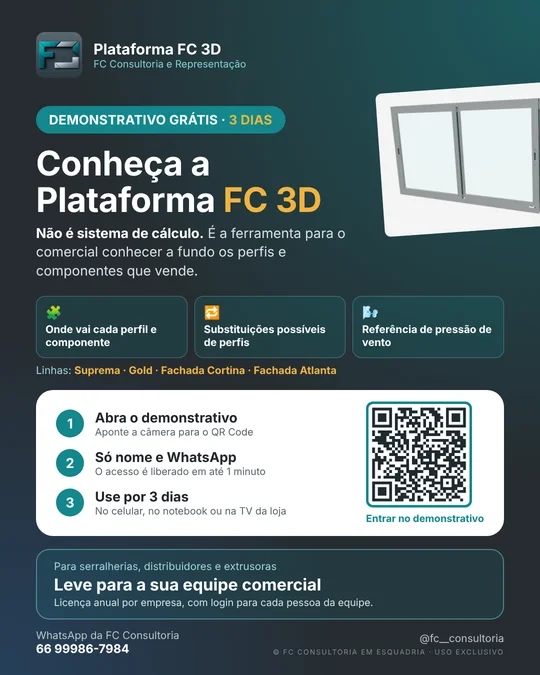
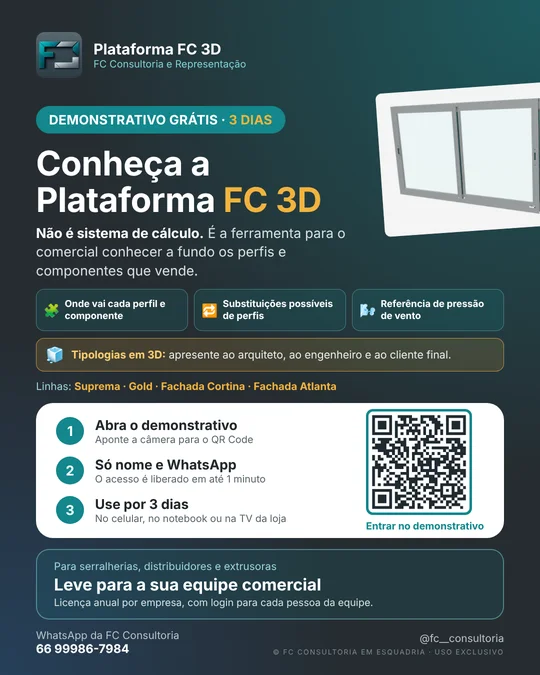
Folder e site: destaque das Tipologias em 3D para apresentar ao arquiteto, engenheiro e cliente final
Claude-Session: https://claude.ai/code/session_014hNNLCRjPvxHuqXagWzFm1

Changed region(s): [[0.0593, 0.4356, 0.9481, 0.8089]]

diff --git a/index.html b/index.html
@@ -193,7 +193,7 @@ footer{padding:28px 0 90px;color:var(--tm);font-size:13.5px}footer .w{display:fl
 
 <style>@media(max-width:760px){.mcb{grid-template-columns:1fr!important}.mcb>div:last-child{justify-self:start!important}}</style>
 <section class="tr" id="treinamento"><div class="w">
- <div class="sh"><div><span class="chip">NOVO</span><br><span class="eb">Plataforma FC 3D</span><h2>O comercial conhecendo a fundo os perfis e componentes que vende</h2></div><p>Não é sistema de cálculo nem de orçamento. É a ferramenta para a equipe comercial de serralherias, distribuidores e extrusoras ver onde vai cada perfil e componente, as substituições possíveis e a referência de pressão de vento. Licença anual por empresa, com login para cada pessoa da equipe.</p></div>
+ <div class="sh"><div><span class="chip">NOVO</span><br><span class="eb">Plataforma FC 3D</span><h2>O comercial conhecendo a fundo os perfis e componentes que vende</h2></div><p>Não é sistema de cálculo nem de orçamento. É a ferramenta para a equipe comercial de serralherias, distribuidores e extrusoras ver onde vai cada perfil e componente, as substituições possíveis e a referência de pressão de vento. E com as Tipologias em 3D, a empresa apresenta ao arquiteto, ao engenheiro e ao cliente final. Licença anual por empresa, com login para cada pessoa da equipe.</p></div>
  <style>
  .dif{margin:6px 0 34px;padding:26px;border-radius:22px;background:linear-gradient(160deg,#103f45 0,#0b2a2f 100%);border:1px solid rgba(110,210,220,.25)}
  .dif .dt{display:flex;align-items:baseline;gap:12px;flex-wrap:wrap;margin-bottom:18px}.dif .dt h3{font-size:26px;margin:0;color:#fff}.dif .dt span{color:#9fd6dc;font-size:15px}
@@ -224,6 +224,7 @@ footer{padding:28px 0 90px;color:var(--tm);font-size:13.5px}footer .w{display:fl
    <li><i>🧩</i><div><b>Onde vai cada perfil e componente</b><br><span>Janelas e portas das linhas Suprema e Gold: a aplicação de cada peça na montagem.</span></div></li>
    <li><i>🔁</i><div><b>Substituições possíveis</b><br><span>Quais perfis podem substituir outros, para atender com o que a empresa tem.</span></div></li>
    <li><i>🌬</i><div><b>Referência de pressão de vento</b><br><span>Simulação na própria tela, com as medidas da esquadria.</span></div></li>
+   <li><i>🧊</i><div><b>Tipologias em 3D para apresentar</b><br><span>A empresa mostra as esquadrias ao arquiteto, ao engenheiro e ao cliente final.</span></div></li>
    <li><i>🏢</i><div><b>Fachada Cortina e Fachada Atlanta</b><br><span>Montagens das fachadas em 3D com as medidas da obra.</span></div></li>
    <li><i>📐</i><div><b>Desenho técnico interativo</b><br><span>Elevação e cortes da montagem; passe o mouse no perfil e veja o código e o peso.</span></div></li>
   </ul>
@@ -234,7 +235,7 @@ footer{padding:28px 0 90px;color:var(--tm);font-size:13.5px}footer .w{display:fl
   <div class="dhd"><div><span class="chip">VÍDEO · 1 min</span><h3>Como funciona o demonstrativo de 3 dias</h3><p>Abra o link, preencha só nome e WhatsApp, e use por 3 dias no celular, no notebook ou na TV.</p></div></div>
     <div class="dbox" id="dbox"><video id="dvid" src="vid/plataforma_fc3d_demonstrativo.mp4?v=4" poster="img/plataforma-fc3d-video.jpg" controls playsinline preload="none"></video><button type="button" id="dplay">▶ Assista como funciona</button></div>
   <div class="dfold">
-   <a class="dfimg" href="img/folder-demonstrativo-fc3d.jpg?v=2" target="_blank" rel="noopener"><img src="img/folder-demonstrativo-fc3d-540.webp?v=2" width="540" height="675" alt="Folder do demonstrativo grátis de 3 dias da Plataforma FC 3D" loading="lazy"></a>
+   <a class="dfimg" href="img/folder-demonstrativo-fc3d.jpg?v=3" target="_blank" rel="noopener"><img src="img/folder-demonstrativo-fc3d-540.webp?v=3" width="540" height="675" alt="Folder do demonstrativo grátis de 3 dias da Plataforma FC 3D" loading="lazy"></a>
    <div class="dftx">
     <span class="chip">DEMONSTRATIVO GRÁTIS · 3 DIAS</span>
     <h3>Entre agora e conheça a Plataforma FC 3D</h3>
@@ -244,7 +245,7 @@ footer{padding:28px 0 90px;color:var(--tm);font-size:13.5px}footer .w{display:fl
      <li><b>Use por 3 dias</b> no celular, no notebook ou na TV da loja.</li>
     </ol>
     <p class="dfal">Gostou? Leve para a sua equipe comercial: fale com a FC e conheça os planos de licença anual por empresa, com login para cada pessoa.</p>
-    <div class="dfbt"><a class="btn cy" href="fc3d/clientes/demo/" target="_blank" rel="noopener">▶ Entrar no demonstrativo</a><a class="btn gh" href="https://wa.me/5566999867984?text=Ol%C3%A1%2C%20FC!%20Conheci%20a%20Plataforma%20FC%203D%20pelo%20demonstrativo%20e%20quero%20saber%20dos%20planos%20para%20a%20minha%20equipe." target="_blank" rel="noopener">💬 Gostei, quero falar com a FC</a><a class="btn gh" href="img/folder-demonstrativo-fc3d.jpg?v=2" download="Folder-Plataforma-FC3D-demonstrativo.jpg">⬇ Baixar o folder</a></div>
+    <div class="dfbt"><a class="btn cy" href="fc3d/clientes/demo/" target="_blank" rel="noopener">▶ Entrar no demonstrativo</a><a class="btn gh" href="https://wa.me/5566999867984?text=Ol%C3%A1%2C%20FC!%20Conheci%20a%20Plataforma%20FC%203D%20pelo%20demonstrativo%20e%20quero%20saber%20dos%20planos%20para%20a%20minha%20equipe." target="_blank" rel="noopener">💬 Gostei, quero falar com a FC</a><a class="btn gh" href="img/folder-demonstrativo-fc3d.jpg?v=3" download="Folder-Plataforma-FC3D-demonstrativo.jpg">⬇ Baixar o folder</a></div>
    </div>
   </div>
   <p class="dnote">📘 É uma ferramenta de apresentação e simulação: medidas e pesos são demonstrativos e devem ser confirmados no sistema de cálculo e com o seu fornecedor. Suprema e Gold são marcas de seus respectivos titulares.</p>
